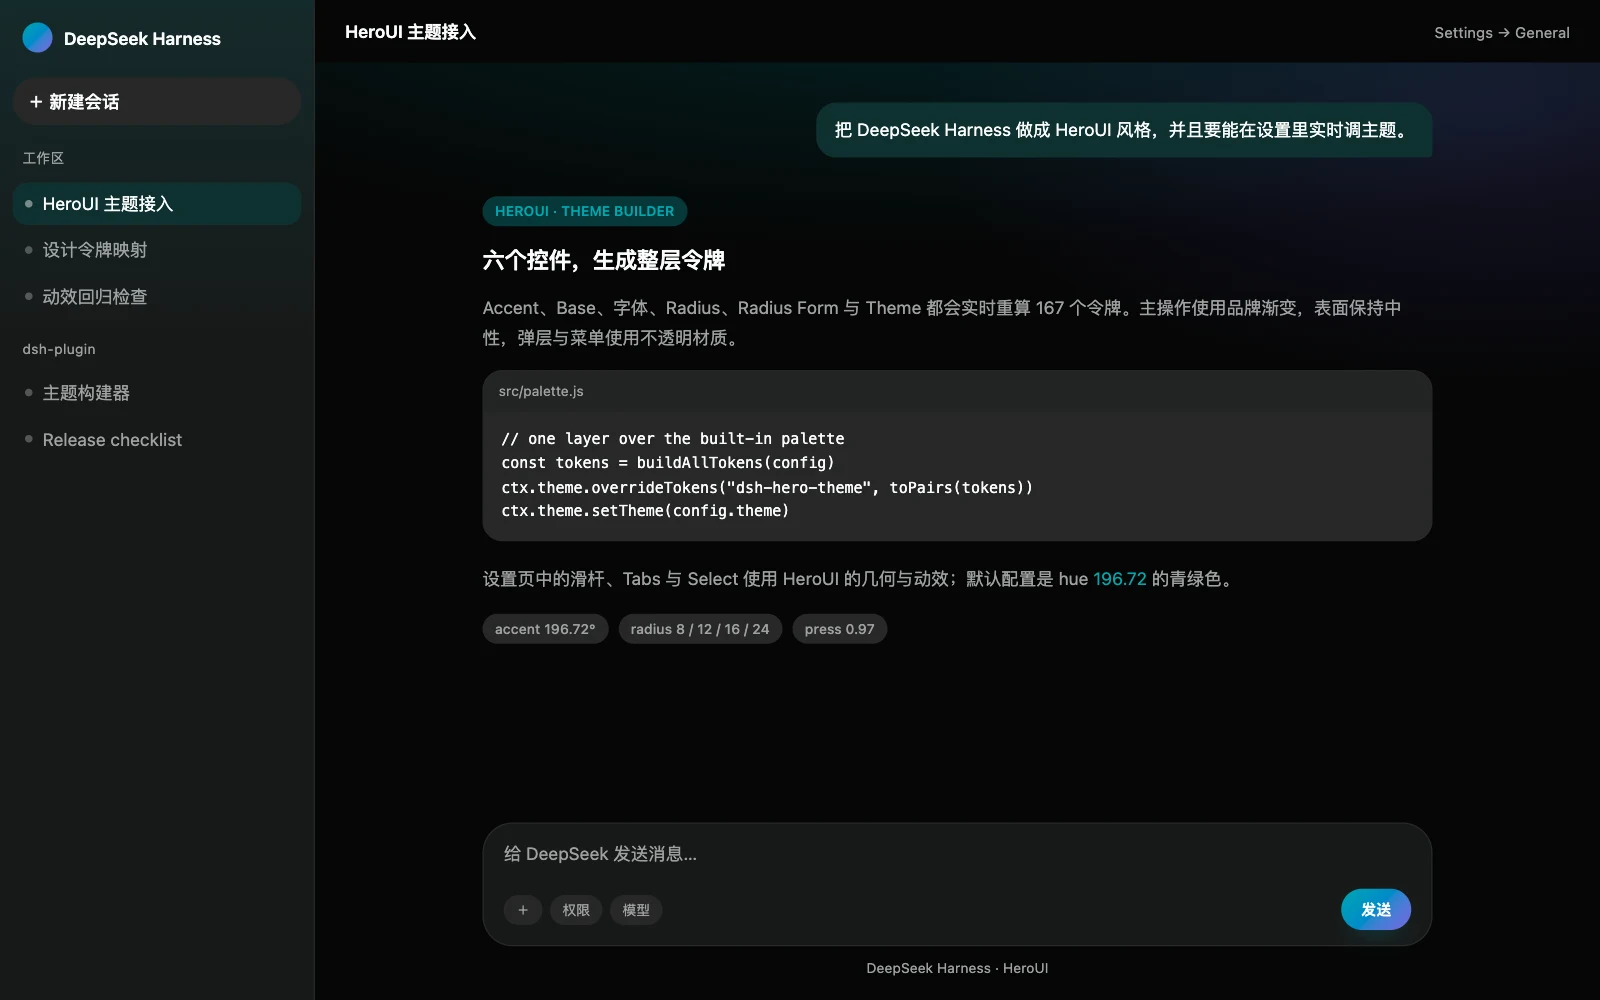
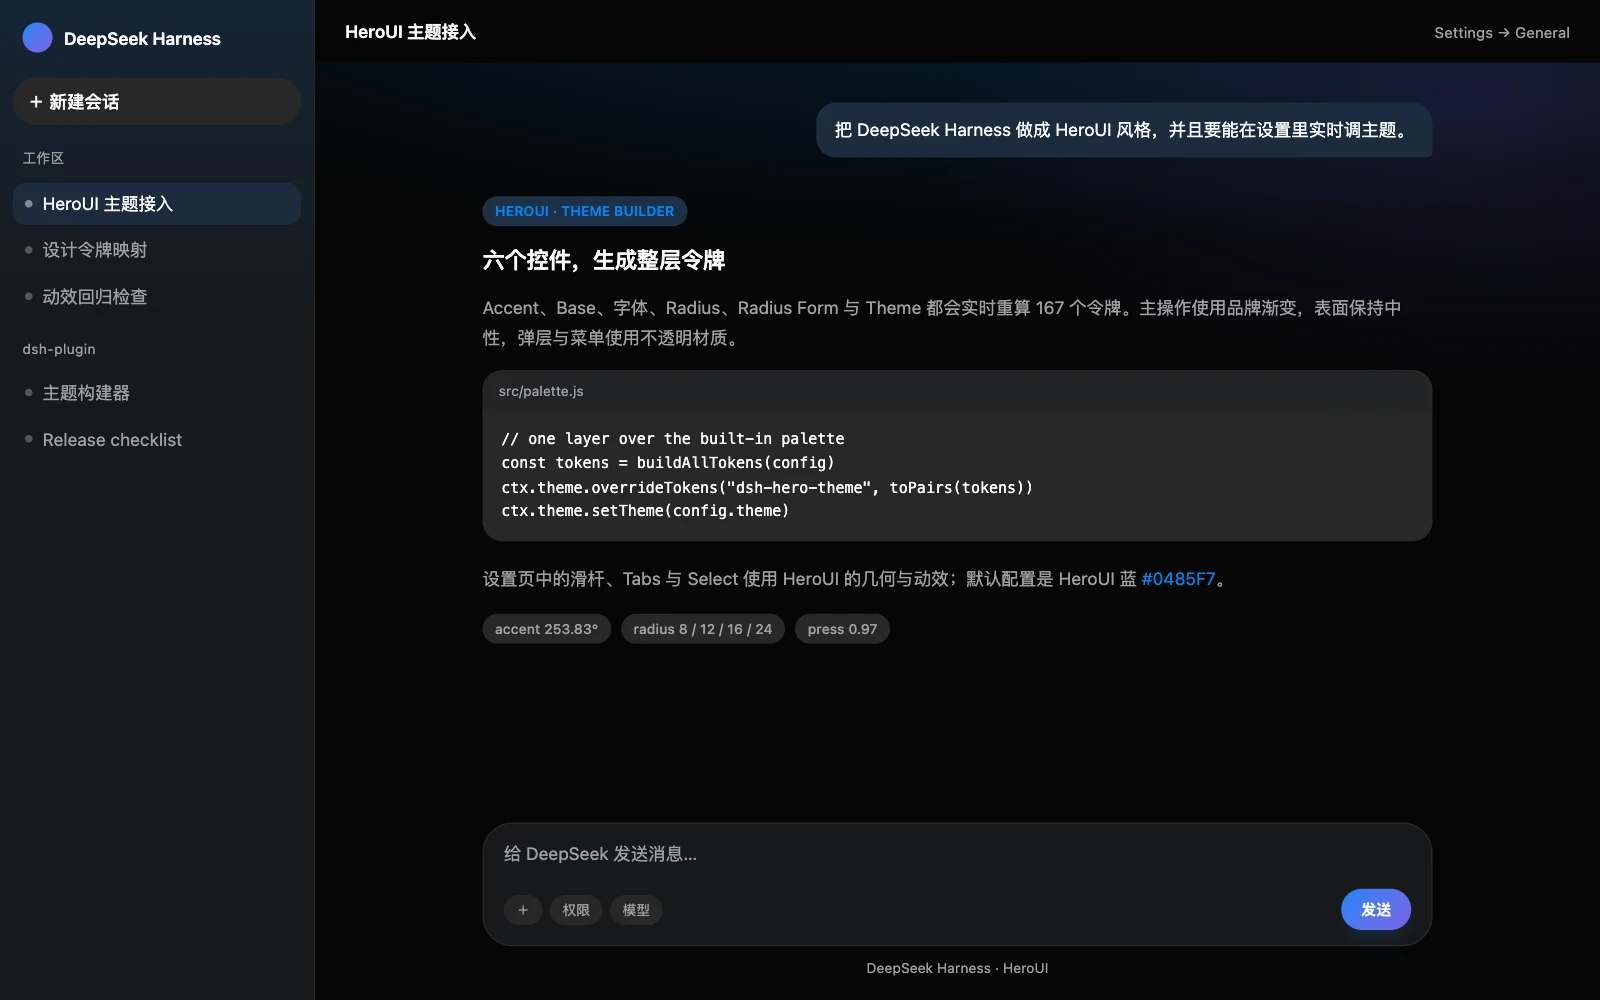
feat: default accent to HeroUI blue #0485F7

diff --git a/src/palette.js b/src/palette.js
@@ -13,7 +13,7 @@
 
 export const DEFAULT_CONFIG = Object.freeze({
   theme: 'dark',
-  accentHue: 196.72,
+  accentHue: 253.83,
   baseChroma: 0.0015,
   fontFamily: 'Inter',
   radius: 0.5,
@@ -307,7 +307,7 @@ function buildMode(mode, config) {
     '--dsh-hero-radius-tabs': px(config.radius * 2.5),
     '--dsh-hero-segment': segment,
     '--dsh-hero-button-secondary-fg': accentSoftForeground,
-    '--dsh-hero-accent-2': okl(0.585, 0.19, hue + 88),
+    '--dsh-hero-accent-2': okl(0.585, 0.19, hue + 31.67),
 
     '--dsw-shadow-lv1': dark
       ? '0 0 0 0 transparent inset'

diff --git a/src/index.js b/src/index.js
@@ -13,7 +13,7 @@ export const SETTINGS_ENTRY_ID = 'dsh-hero-theme'
 /** Default builder values, mirrored by src/palette.js. */
 export const DEFAULT_CONFIG = Object.freeze({
   theme: 'dark',
-  accentHue: 196.72,
+  accentHue: 253.83,
   baseChroma: 0.0015,
   fontFamily: 'Inter',
   radius: 0.5,

diff --git a/README.md b/README.md
@@ -29,7 +29,7 @@
   <img src=".github/asset/dark.webp" alt="HeroUI dark theme preview" width="49%">
 </p>
 
-<sub align="center">Preview renders of the generated light and dark palettes in a representative DSH layout.</sub>
+<p align="center"><sub>Preview renders of the generated light and dark palettes in a representative DSH layout.</sub></p>
 
 ## Highlights
 
@@ -49,18 +49,18 @@
   <img src=".github/asset/builder-dark.webp" alt="HeroUI theme builder in dark mode" width="49%">
 </p>
 
-<sub align="center">Settings → General → HeroUI theme. The sliders, Tabs and Select are HeroUI-styled controls.</sub>
+<p align="center"><sub>Settings → General → HeroUI theme. The sliders, Tabs and Select are HeroUI-styled controls.</sub></p>
 
 | Control | Range | Default | What it changes |
 | --- | --- | --- | --- |
-| Accent | hue `0–360` | `196.72` | Accent `oklch(62.04% 0.195 hue)`, focus ring, gradient start |
+| Accent | hue `0–360` | `253.83` | Accent `oklch(62.04% 0.195 hue)` (`#0485F7` at the default), focus ring, gradient start |
 | Base | chroma `0–0.02` | `0.0015` | Chroma of every neutral (background, surfaces, text, borders) |
 | Font Family | Inter / System UI / Geist / Manrope / IBM Plex Sans / JetBrains Mono | Inter | `--dsw-font-family` and the brand stack |
 | Radius | `0–1.25rem` | `0.5rem` (8px) | HeroUI radius scale and card radius (`3×`) |
 | Radius Form | `0–1.5rem` | `0.75rem` (12px) | Inputs and form fields |
 | Theme | Light / Dark / System | Dark | Base color scheme and `ctx.theme.setTheme()` |
 
-The default accent is the HeroUI builder's teal at hue `196.72`; the secondary gradient color is generated 88° around the wheel. Fonts must be installed locally — the stack falls back to System UI.
+The default accent is HeroUI blue `#0485F7` at hue `253.83`; the secondary gradient color is generated 31.67° around the wheel toward the HeroUI violet. Fonts must be installed locally — the stack falls back to System UI.
 
 ## Generated palette
 
@@ -81,7 +81,7 @@ Radii: HeroUI component tokens use `3×` (cards), `2.5×` (tabs), `2× + 6px` (p
 
 On top of the generated tokens, `src/hero.css` adds the recognizable HeroUI details:
 
-- **Gradient primary actions** — accent → `accent + 88°` with a soft glow.
+- **Gradient primary actions** — accent → `accent + 31.67°` (blue → violet at the default) with a soft glow.
 - **Aurora wash** — accent/violet gradients on the conversation canvas and sidebar.
 - **HeroUI surfaces** — composer and dialogs use the card radius; Dropdown/Select menu popovers use the 22px dropdown radius. Bubbles, selected sessions, menus and overlays never show the page through.
 - **HeroUI controls** — 36px secondary buttons with the 0.97 press scale, a sliding-indicator Tabs switch for the theme, and a Select with a rotating chevron, 150ms scale/fade popover, 100ms exit and a stroke-drawn check.

diff --git a/README.zh.md b/README.zh.md
@@ -29,7 +29,7 @@
   <img src=".github/asset/dark.webp" alt="HeroUI 深色主题预览" width="49%">
 </p>
 
-<sub align="center">基于生成令牌的浅色 / 深色预览，使用代表性 DSH 布局渲染。</sub>
+<p align="center"><sub>基于生成令牌的浅色 / 深色预览，使用代表性 DSH 布局渲染。</sub></p>
 
 ## 特性
 
@@ -49,18 +49,18 @@
   <img src=".github/asset/builder-dark.webp" alt="深色模式下的 HeroUI 主题构建器" width="49%">
 </p>
 
-<sub align="center">设置 → 通用 → HeroUI 主题。滑杆、Tabs 与 Select 均为 HeroUI 风格控件。</sub>
+<p align="center"><sub>设置 → 通用 → HeroUI 主题。滑杆、Tabs 与 Select 均为 HeroUI 风格控件。</sub></p>
 
 | 控件 | 范围 | 默认值 | 作用 |
 | --- | --- | --- | --- |
-| Accent | 色相 `0–360` | `196.72` | Accent `oklch(62.04% 0.195 hue)`、焦点环、渐变起点 |
+| Accent | 色相 `0–360` | `253.83` | Accent `oklch(62.04% 0.195 hue)`（默认即 `#0485F7`）、焦点环、渐变起点 |
 | Base | 彩度 `0–0.02` | `0.0015` | 所有中性色的彩度（背景、表面、文字、边框） |
 | Font Family | Inter / System UI / Geist / Manrope / IBM Plex Sans / JetBrains Mono | Inter | `--dsw-font-family` 与品牌字体栈 |
 | Radius | `0–1.25rem` | `0.5rem`（8px） | HeroUI 圆角比例与卡片圆角（`3×`） |
 | Radius Form | `0–1.5rem` | `0.75rem`（12px） | 输入框与表单字段 |
 | Theme | 浅色 / 深色 / 跟随系统 | 深色 | 基础明暗方案与 `ctx.theme.setTheme()` |
 
-默认强调色是 HeroUI 构建器 hue `196.72` 的青绿色；渐变第二色自动取色轮 +88°。字体需系统已安装，否则回退 System UI。
+默认强调色是 HeroUI 蓝 `#0485F7`（hue `253.83`）；渐变第二色取色轮 +31.67°，指向 HeroUI 紫色。字体需系统已安装，否则回退 System UI。
 
 ## 调色板生成规则
 
@@ -81,7 +81,7 @@
 
 在生成令牌之上，`src/hero.css` 补齐 HeroUI 的辨识度：
 
-- **渐变主操作**：accent → accent+88°，带柔和光晕。
+- **渐变主操作**：accent → accent+31.67°（默认蓝 → 紫），带柔和光晕。
 - **极光底色**：对话画布与侧栏叠加 accent/紫色渐变。
 - **HeroUI 表面**：输入区与 Modal 使用卡片圆角；Dropdown/Select 菜单使用 22px 下拉圆角。气泡、选中会话、菜单、弹层都不会透出页面内容。
 - **HeroUI 控件**：36px 次要按钮与 0.97 按压缩放；Theme 使用带滑动指示器的 Tabs；Font Family 使用 Select（旋转箭头、150ms 缩放淡入、100ms 退出、描边勾选动画）。
